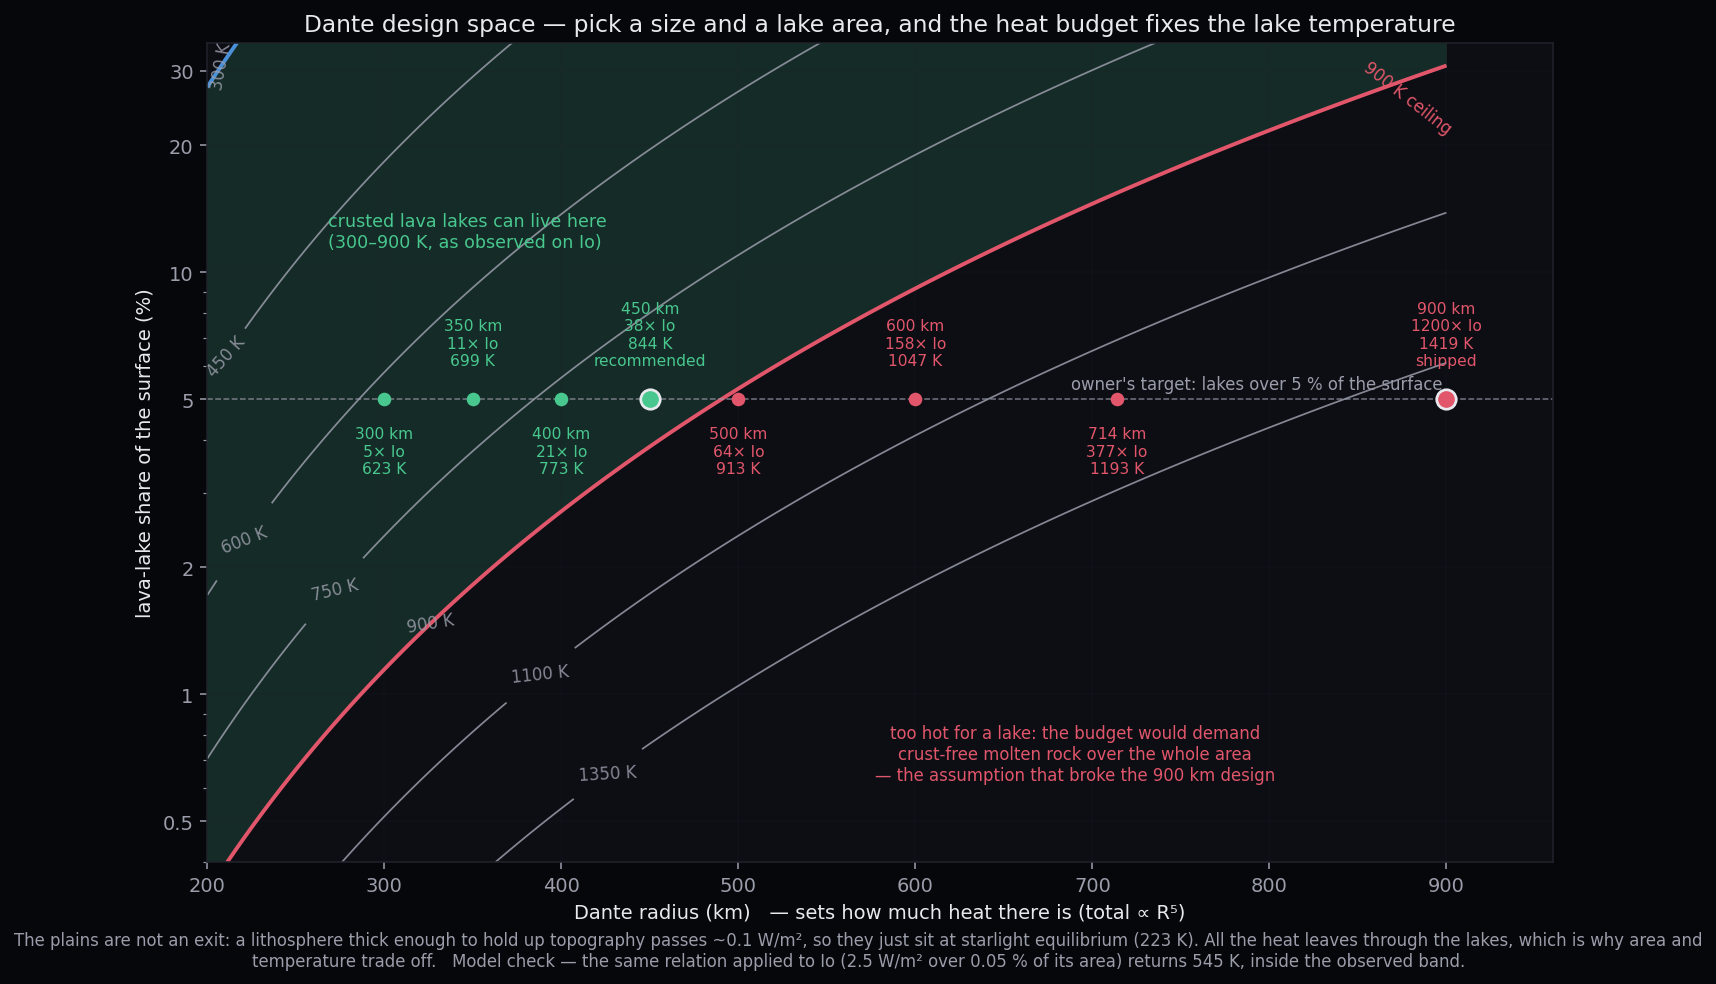
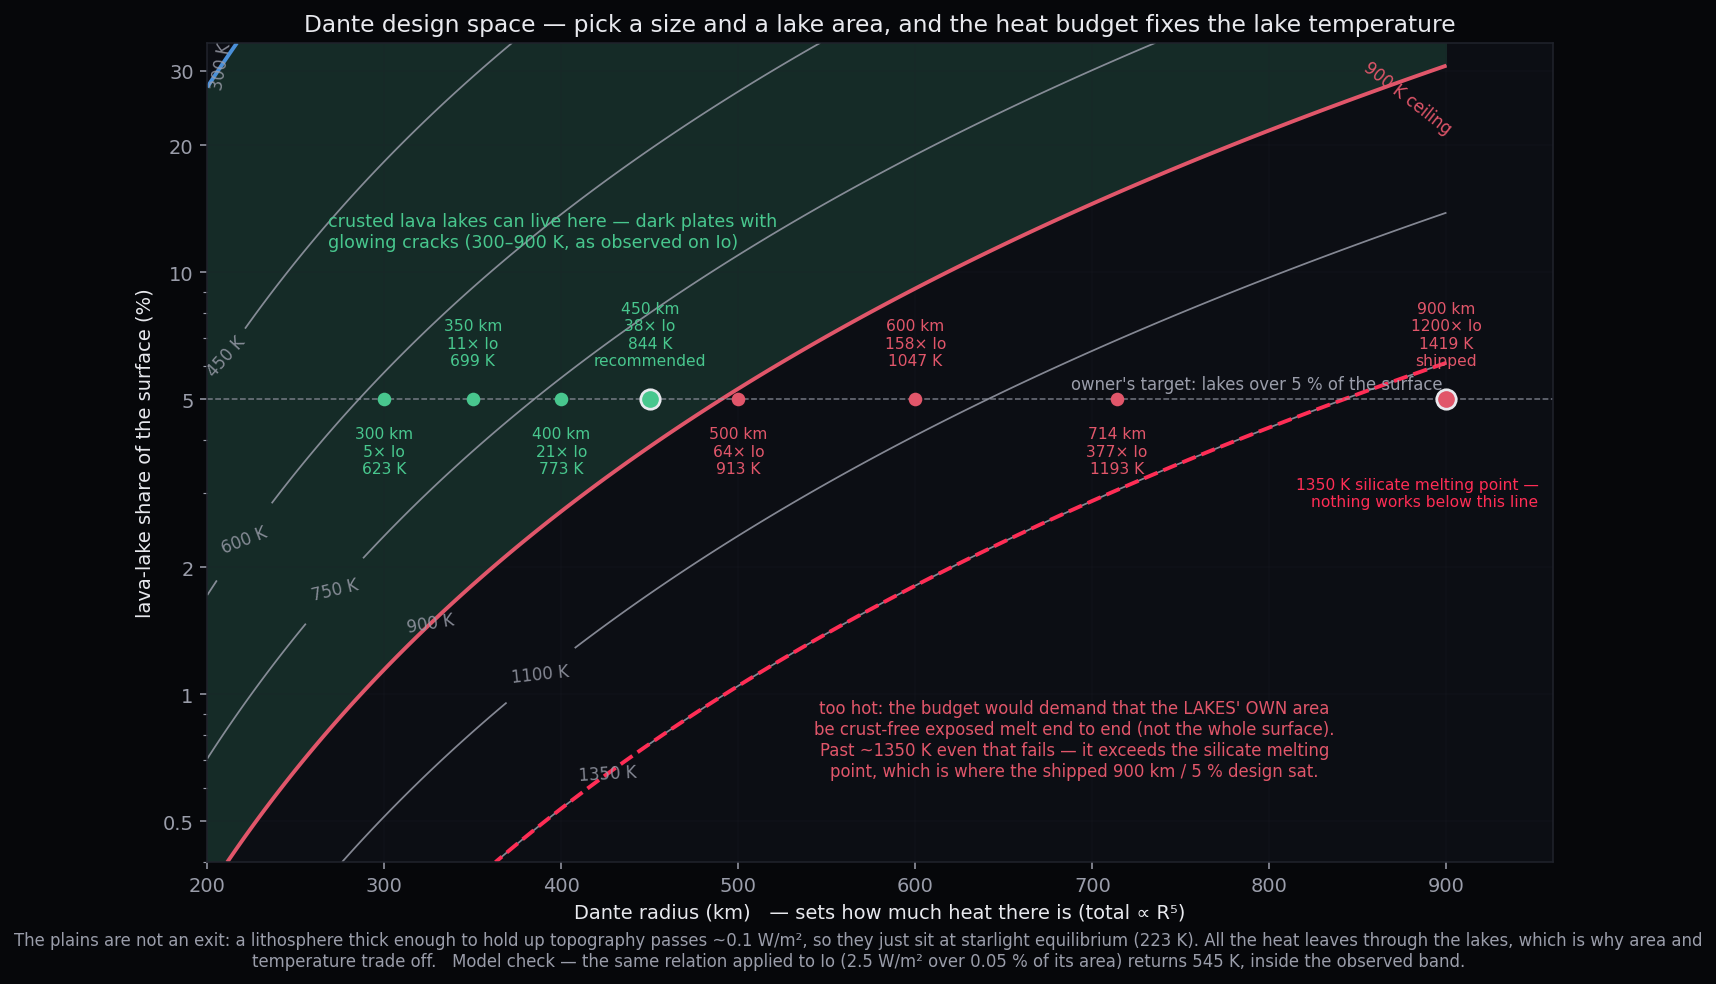
fix(stability-sim): say whose area must be molten, and draw the melting point
The red-region note said "crust-free molten rock over the whole area" without
saying whose area, which reads as the whole surface. It is the LAKES' own area:
designate 5 % of the surface as lakes and it is that 5 % which must be crust-free
end to end, not the crust at large. Reworded on the figure.

Also draws the 1350 K silicate melting point as a hard boundary, because past it
no lava configuration works at all — and that is exactly where the shipped
900 km / 5 % design sat (it demands 1,419 K, i.e. superheated melt). The way out
for a big Dante is area, not temperature: holding the lakes at a crusted 900 K
needs 31 % of the surface at 900 km against 3.9 % at 450 km.

diff --git a/phase3/stability-sim/scripts/plot_dante_design_space.py b/phase3/stability-sim/scripts/plot_dante_design_space.py
@@ -81,12 +81,18 @@ def draw(theme: str):
     ax.clabel(cs, fmt=lambda v: f"{v:.0f} K", fontsize=8.5, inline_spacing=6)
     ax.contour(Rg, 100 * Fg, Tg, levels=[LAKE_HI], colors=["#e1566a"], linewidths=2.0)
     ax.contour(Rg, 100 * Fg, Tg, levels=[LAKE_LO], colors=["#4a90d9"], linewidths=2.0)
+    ax.contour(Rg, 100 * Fg, Tg, levels=[1350.0], colors=["#ff2d55"],
+               linewidths=2.0, linestyles="--")
+    ax.text(952, 3.0, "1350 K silicate melting point —\nnothing works below this line",
+            fontsize=8, color="#ff2d55", ha="right", va="center")
     # the shaded band IS the feasible one; name both of its edges on the plot
-    ax.text(268, 12.5, "crusted lava lakes can live here\n(300–900 K, as observed on Io)",
+    ax.text(268, 12.5, "crusted lava lakes can live here — dark plates with\n"
+            "glowing cracks (300–900 K, as observed on Io)",
             fontsize=9, color="#48c78e", va="center")
-    ax.text(690, 0.72, "too hot for a lake: the budget would demand\n"
-                       "crust-free molten rock over the whole area\n"
-                       "— the assumption that broke the 900 km design",
+    ax.text(690, 0.78, "too hot: the budget would demand that the LAKES' OWN area\n"
+                       "be crust-free exposed melt end to end (not the whole surface).\n"
+                       "Past ~1350 K even that fails — it exceeds the silicate melting\n"
+                       "point, which is where the shipped 900 km / 5 % design sat.",
             fontsize=8.5, color="#e1566a", va="center", ha="center")
     ax.text(905, 26, "900 K ceiling", fontsize=8.5, color="#e1566a",
             ha="right", va="center", rotation=-38)
